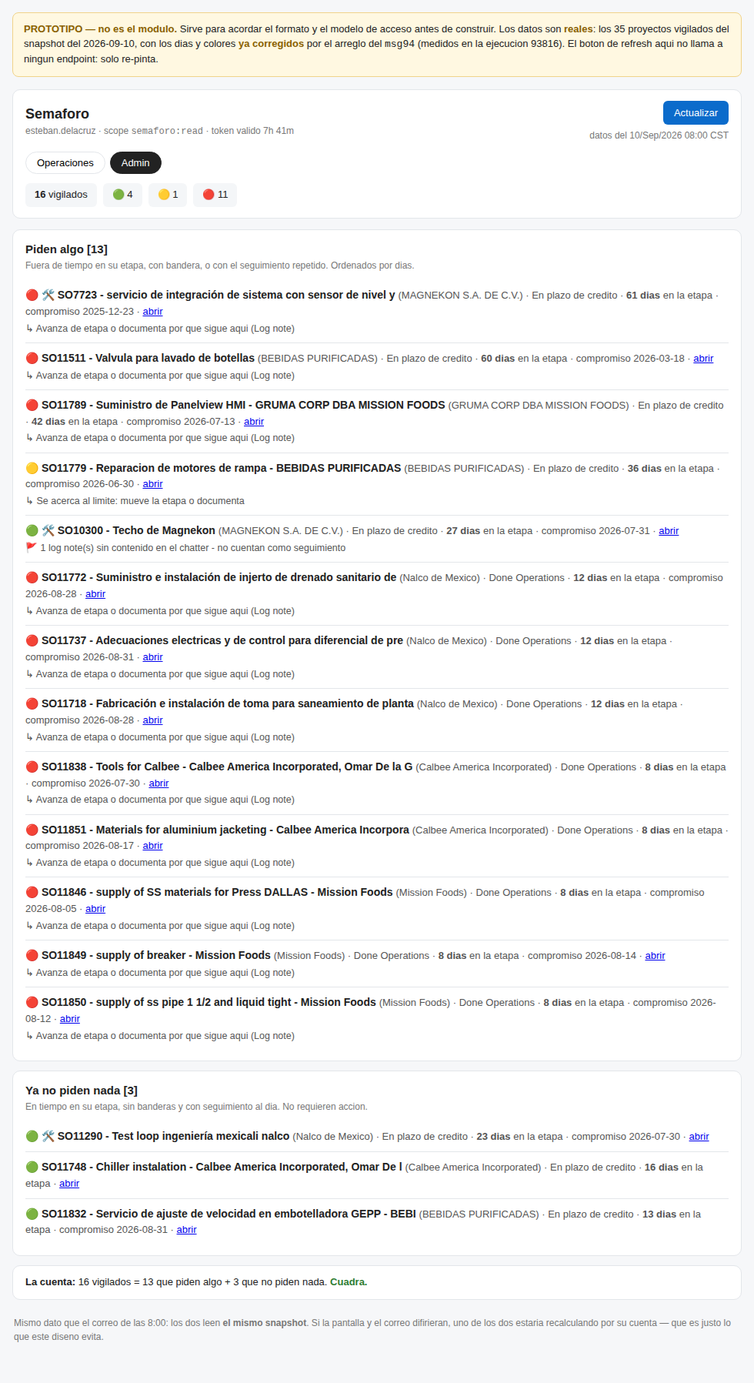
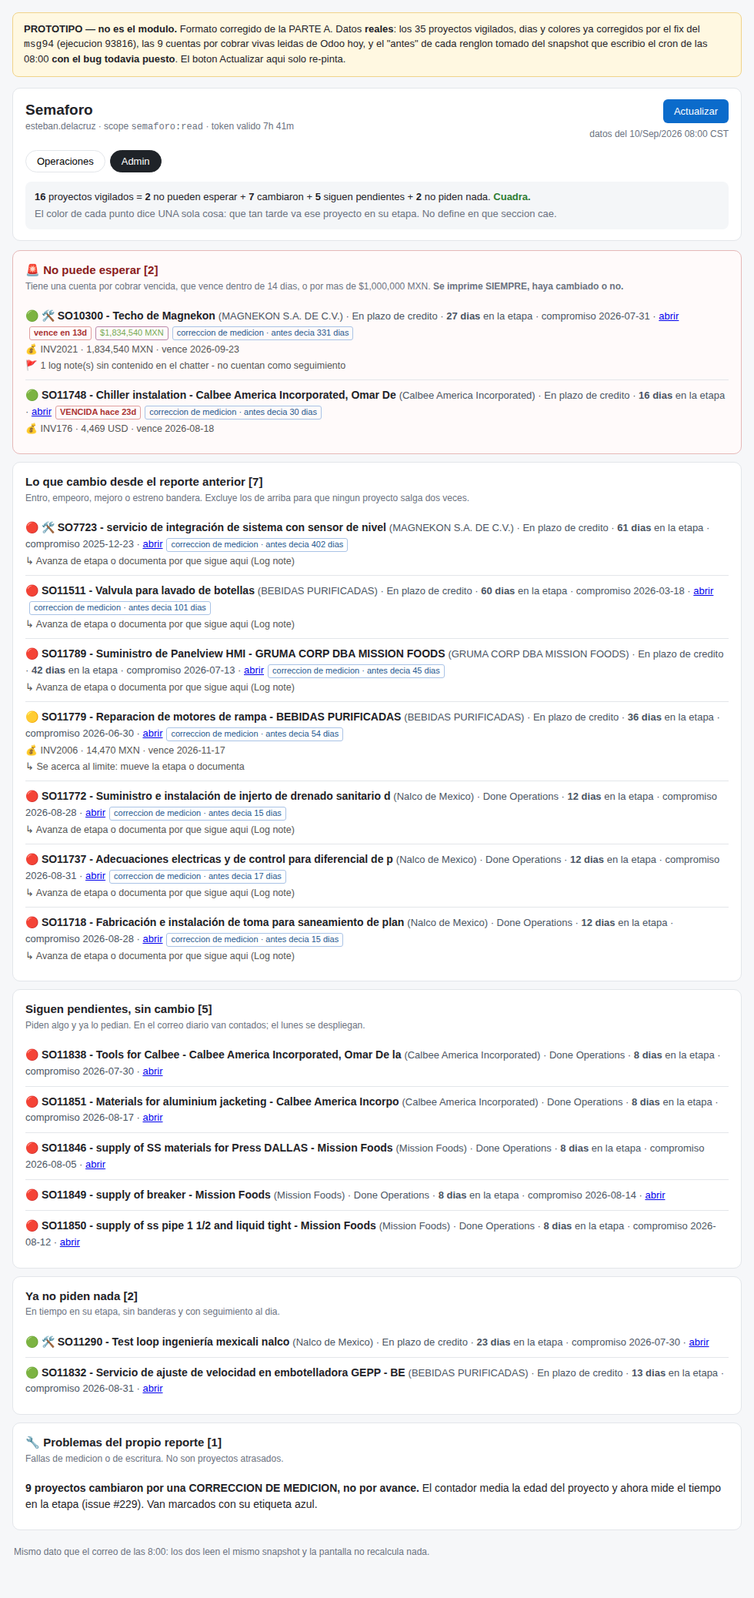
feat(semaforo): prototipo con el formato corregido de la parte A (#226 #230)
Capa SIEMPRE VISIBLE (A1): seccion "No puede esperar" con las cuentas por
cobrar vencidas, las que vencen dentro de 14 dias, y las de mas de $1M MXN.
Se imprime SIEMPRE, haya cambiado o no. Umbrales MEDIDOS contra la cartera
real (9 cuentas vivas, 5.04M MXN-eq): el hueco natural de monto esta entre
194,753 y 1,121,255 (x5.8), asi que cualquier corte ahi adentro selecciona los
mismos 3 proyectos = 86% de la cartera; 1M es el redondo dentro del hueco. La
ventana de 14 dias da 5 renglones (7d da 3, 30d da 7 = 78% de la cartera, que
ya no es "siempre visible" sino "todo"). Con esto SO10337, que vence HOY y se
habia perdido en "siguen pendientes", queda arriba y no se puede enterrar.

UN SOLO EJE (A2): el encabezado cuenta las MISMAS cajas que el cuerpo -- no
pueden esperar / cambiaron / siguen pendientes / no piden nada -- y son
disjuntas, asi que la suma cierra. El color deja de definir seccion y pasa a
ser un atributo del renglon: dice una sola cosa, que tan tarde va ese proyecto
en su etapa.

CORRECCION DE MEDICION (A4): un renglon que se movio por el fix del msg94 se
marca "correccion de medicion", no "mejoro", y el bloque de problemas del
reporte dice cuantos son y por que.

MEJORO CON VALOR ANTERIOR (A5): cada cambio trae "antes decia N dias".

Revisado mirandolo a 980 y 400 px, sin pageerror ni console.error, y
verificado por consulta que SO10337 sale en la seccion de arriba.

Claude-Session: https://claude.ai/code/session_01BpNa3pA8Y3jDHR1FqQrPWv

Changed region(s): [[0.0306, 0.0, 0.9796, 0.9972], [0.8878, 0.6233, 0.9184, 0.6544], [0.4898, 0.9661, 0.5204, 0.9972]]

diff --git a/docs/watchdogs/prototipo/semaforo-modulo.html b/docs/watchdogs/prototipo/semaforo-modulo.html
@@ -1,127 +1,146 @@
-<!doctype html><meta charset="utf-8">
-<title>Semaforo - prototipo del modulo</title>
+<!doctype html><meta charset="utf-8"><title>Semaforo - prototipo del modulo</title>
 <style>
- :root{--rojo:#c62828;--amar:#b35900;--verde:#2e7d32;--tinta:#222;--gris:#777;--linea:#e3e6ea}
+ :root{--rojo:#c62828;--amar:#b35900;--verde:#2e7d32;--tinta:#1f2328;--gris:#6b7280;--linea:#e3e6ea;--urg:#8a1c1c}
  *{box-sizing:border-box}
  body{margin:0;background:#f6f7f9;color:var(--tinta);font:14px/1.45 -apple-system,Segoe UI,Arial,sans-serif}
- .wrap{max-width:980px;margin:0 auto;padding:16px}
- .aviso{background:#fff8e1;border:1px solid #f0d38a;border-radius:8px;padding:12px 14px;margin-bottom:16px;font-size:13px}
- .aviso b{color:#8a6100}
- header.app{background:#fff;border:1px solid var(--linea);border-radius:10px;padding:14px 16px;margin-bottom:14px}
- .fila1{display:flex;flex-wrap:wrap;gap:10px;align-items:center;justify-content:space-between}
- h1{font-size:18px;margin:0}
+ .wrap{max-width:1000px;margin:0 auto;padding:16px}
+ .aviso{background:#fff8e1;border:1px solid #f0d38a;border-radius:8px;padding:12px 14px;margin-bottom:14px;font-size:13px}
+ header.app{background:#fff;border:1px solid var(--linea);border-radius:10px;padding:14px 16px;margin-bottom:12px}
+ .fila1{display:flex;flex-wrap:wrap;gap:10px;align-items:flex-start;justify-content:space-between}
+ h1{font-size:19px;margin:0}
  .sesion{font-size:12px;color:var(--gris)}
  .btn{background:#0b6bcb;color:#fff;border:0;border-radius:6px;padding:8px 14px;font-size:13px;cursor:pointer}
  .btn:disabled{background:#9bb8d6;cursor:default}
  .tabs{display:flex;gap:6px;margin-top:12px;flex-wrap:wrap}
  .tab{border:1px solid var(--linea);background:#fff;border-radius:999px;padding:6px 14px;font-size:13px;cursor:pointer}
  .tab[aria-selected=true]{background:var(--tinta);color:#fff;border-color:var(--tinta)}
- .kpis{display:flex;gap:8px;flex-wrap:wrap;margin-top:12px;font-size:13px}
- .kpi{background:#f4f6f8;border-radius:6px;padding:6px 12px}
- section{background:#fff;border:1px solid var(--linea);border-radius:10px;padding:14px 16px;margin-bottom:12px}
+ .recuento{margin-top:12px;font-size:13px;background:#f4f6f8;border-radius:8px;padding:9px 12px;line-height:1.7}
+ .recuento b{font-variant-numeric:tabular-nums}
+ section{background:#fff;border:1px solid var(--linea);border-radius:10px;padding:14px 16px;margin-bottom:10px}
+ section.urgente{border-color:#e6b8b8;background:#fffafa}
  h2{font-size:15px;margin:0 0 2px}
+ h2.urg{color:var(--urg)}
  .criterio{font-size:12px;color:var(--gris);margin:0 0 10px}
  ul{list-style:none;margin:0;padding:0}
  li.row{border-top:1px solid var(--linea);padding:9px 0}
  li.row:first-child{border-top:0}
  .nom{font-weight:600}
- .meta{color:#555;font-size:13px}
- .chip{display:inline-block;font-size:11px;color:#666;border:1px solid #ccc;border-radius:3px;padding:0 5px;margin-left:5px;white-space:nowrap}
+ .meta{color:#4b5563;font-size:13px}
+ .chip{display:inline-block;font-size:11px;color:#555;border:1px solid #ccd;border-radius:3px;padding:0 5px;margin-left:5px;white-space:nowrap}
+ .chip.dinero{border-color:#b8a; color:#7a5}
+ .chip.vence{border-color:#e0a0a0;color:#a33;font-weight:600}
+ .chip.corr{border-color:#a9c3e6;color:#25588f}
  .band{display:block;color:#555;font-size:12.5px;margin-top:3px}
- .vacio{color:#999;font-size:13px}
- .pie{font-size:12px;color:var(--gris);padding:10px 2px 24px}
- .cuenta{background:#fff;border:1px solid var(--linea);border-radius:10px;padding:12px 16px;font-size:13px}
+ .vacio{color:#9aa;font-size:13px}
+ .pie{font-size:12px;color:var(--gris);padding:8px 2px 24px}
+ .cuenta{background:#fff;border:1px solid var(--linea);border-radius:10px;padding:12px 16px;font-size:13px;margin-bottom:10px}
  .ok{color:var(--verde);font-weight:600}
- @media(max-width:520px){.fila1{align-items:flex-start;flex-direction:column}}
+ @media(max-width:560px){.fila1{flex-direction:column}}
 </style>
 <div class="wrap">
-<div class="aviso">
- <b>PROTOTIPO — no es el modulo.</b> Sirve para acordar el formato y el modelo de acceso antes de construir.
- Los datos son <b>reales</b>: los 35 proyectos vigilados del snapshot del 2026-09-10, con los dias y colores
- <b>ya corregidos</b> por el arreglo del <code>msg94</code> (medidos en la ejecucion 93816). El boton de refresh
- aqui no llama a ningun endpoint: solo re-pinta.
-</div>
-
+<div class="aviso"><b>PROTOTIPO — no es el modulo.</b> Formato corregido de la PARTE A. Datos <b>reales</b>:
+los 35 proyectos vigilados, dias y colores ya corregidos por el fix del <code>msg94</code> (ejecucion 93816),
+las 9 cuentas por cobrar vivas leidas de Odoo hoy, y el "antes" de cada renglon tomado del snapshot que
+escribio el cron de las 08:00 <b>con el bug todavia puesto</b>. El boton Actualizar aqui solo re-pinta.</div>
 <header class="app">
  <div class="fila1">
-  <div>
-   <h1>Semaforo</h1>
-   <div class="sesion">esteban.delacruz &middot; scope <code>semaforo:read</code> &middot; token valido 7h 41m</div>
-  </div>
-  <div style="text-align:right">
-   <button class="btn" id="ref">Actualizar</button>
-   <div class="sesion" id="ts" style="margin-top:6px">datos del 10/Sep/2026 08:00 CST</div>
-  </div>
+  <div><h1>Semaforo</h1><div class="sesion">esteban.delacruz &middot; scope <code>semaforo:read</code> &middot; token valido 7h 41m</div></div>
+  <div style="text-align:right"><button class="btn" id="ref">Actualizar</button>
+   <div class="sesion" style="margin-top:6px">datos del 10/Sep/2026 08:00 CST</div></div>
  </div>
  <div class="tabs" role="tablist">
   <button class="tab" role="tab" data-g="Operaciones" aria-selected="true">Operaciones</button>
   <button class="tab" role="tab" data-g="Admin" aria-selected="false">Admin</button>
  </div>
- <div class="kpis" id="kpis"></div>
+ <div class="recuento" id="recuento"></div>
 </header>
-
 <div id="cuerpo"></div>
-<div class="cuenta" id="cuenta"></div>
-<p class="pie">Mismo dato que el correo de las 8:00: los dos leen <b>el mismo snapshot</b>. Si la pantalla y el
-correo difirieran, uno de los dos estaria recalculando por su cuenta &mdash; que es justo lo que este diseno evita.</p>
+<p class="pie">Mismo dato que el correo de las 8:00: los dos leen el mismo snapshot y la pantalla no recalcula nada.</p>
 </div>
 <script>
-const FILAS = [{"id":2375,"name":"SO11498 - Ingeniería conceptual para el diseño del desbobinadora de carretes Bridgestone e - Bridgestone México","stage":"In Progress","grupo":"Operaciones","cliente":"Bridgestone México","dias":6,"color":"verde","banderas":[],"sin_avance":false,"racha":1,"fuente":"stage_msg","tramo":"6-15","compromiso":"2026-09-30","link":"https://serviciosfts.odoo.com/web#id=2375&model=project.project&view_type=form"},{"id":2360,"name":"SO11748 - Chiller instalation - Calbee America Incorporated, Omar De la Garza","stage":"En plazo de credito","grupo":"Admin","cliente":"Calbee America Incorporated","dias":16,"color":"verde","banderas":[],"sin_avance":false,"racha":1,"fuente":"stage_msg","tramo":"16-30","compromiso":null,"link":"https://serviciosfts.odoo.com/web#id=2360&model=project.project&view_type=form"},{"id":2372,"name":"SO11838 - Tools for Calbee - Calbee America Incorporated, Omar De la Garza","stage":"Done Operations","grupo":"Admin","cliente":"Calbee America Incorporated","dias":8,"color":"rojo","banderas":[],"sin_avance":false,"racha":1,"fuente":"stage_msg","tramo":"6-15","compromiso":"2026-07-30","link":"https://serviciosfts.odoo.com/web#id=2372&model=project.project&view_type=form"},{"id":2376,"name":"SO11860 - VIP Service - Mission HQ - Mission Foods, Robert Barrera","stage":"To Do","grupo":"Operaciones","cliente":"Mission Foods","dias":4,"color":"rojo","banderas":[],"sin_avance":false,"racha":0,"fuente":"stage_msg","tramo":"1-5","compromiso":"2026-08-28","link":"https://serviciosfts.odoo.com/web#id=2376&model=project.project&view_type=form"},{"id":2352,"name":"SO11699 - Instalacion mecanica y electrica de Sensores en ductos de Extraccion de Colector - Bridgestone México, Ruben Robledo","stage":"In Progress","grupo":"Operaciones","cliente":"Bridgestone México","dias":7,"color":"verde","banderas":["Stage regresado Hold -> En proceso por OPERACIONES FTS-YIN"],"sin_avance":false,"racha":1,"fuente":"stage_msg","tramo":">30","compromiso":"2026-12-31","link":"https://serviciosfts.odoo.com/web#id=2352&model=project.project&view_type=form"},{"id":2364,"name":"SO11832 - Servicio de ajuste de velocidad en embotelladora GEPP - BEBIDAS PURIFICADAS","stage":"En plazo de credito","grupo":"Admin","cliente":"BEBIDAS PURIFICADAS","dias":13,"color":"verde","banderas":[],"sin_avance":false,"racha":1,"fuente":"stage_msg","tramo":"16-30","compromiso":"2026-08-31","link":"https://serviciosfts.odoo.com/web#id=2364&model=project.project&view_type=form"},{"id":2374,"name":"SO11851 - Materials for aluminium jacketing - Calbee America Incorporated, Omar De la Garza","stage":"Done Operations","grupo":"Admin","cliente":"Calbee America Incorporated","dias":8,"color":"rojo","banderas":[],"sin_avance":false,"racha":1,"fuente":"stage_msg","tramo":"6-15","compromiso":"2026-08-17","link":"https://serviciosfts.odoo.com/web#id=2374&model=project.project&view_type=form"},{"id":2373,"name":"SO11846 - supply of SS materials for Press DALLAS - Mission Foods","stage":"Done Operations","grupo":"Admin","cliente":"Mission Foods","dias":8,"color":"rojo","banderas":[],"sin_avance":false,"racha":1,"fuente":"stage_msg","tramo":"6-15","compromiso":"2026-08-05","link":"https://serviciosfts.odoo.com/web#id=2373&model=project.project&view_type=form"},{"id":2369,"name":"SO11862 - Cubierta de acero Inoxidable 304 para reactor quimico #2 - MAGNEKON S.A. DE C.V.","stage":"In Progress","grupo":"Operaciones","cliente":"MAGNEKON S.A. DE C.V.","dias":9,"color":"verde","banderas":[],"sin_avance":false,"racha":1,"fuente":"stage_msg","tramo":"6-15","compromiso":"2026-12-31","link":"https://serviciosfts.odoo.com/web#id=2369&model=project.project&view_type=form"},{"id":213,"name":"🛠 SO11037 - Distribucion Electrica luminarias Cabina de Flejadoras - clarios recicladora","stage":"Hold","grupo":"Operaciones","cliente":"JOHNSON CONTROLS ENTERPRISES MEXICO","dias":50,"color":"rojo","banderas":["En Hold con fecha de reactivacion VENCIDA (2026-07-30)"],"sin_avance":false,"racha":1,"fuente":"stage_msg","tramo":">30","compromiso":"2026-07-30","link":"https://serviciosfts.odoo.com/web#id=213&model=project.project&view_type=form"},{"id":241,"name":"🛠 SO11290 - Test loop ingeniería mexicali nalco","stage":"En plazo de credito","grupo":"Admin","cliente":"Nalco de Mexico","dias":23,"color":"verde","banderas":[],"sin_avance":false,"racha":1,"fuente":"stage_msg","tramo":">30","compromiso":"2026-07-30","link":"https://serviciosfts.odoo.com/web#id=241&model=project.project&view_type=form"},{"id":2371,"name":"SO11849 - supply of breaker - Mission Foods","stage":"Done Operations","grupo":"Admin","cliente":"Mission Foods","dias":8,"color":"rojo","banderas":[],"sin_avance":false,"racha":1,"fuente":"stage_msg","tramo":"6-15","compromiso":"2026-08-14","link":"https://serviciosfts.odoo.com/web#id=2371&model=project.project&view_type=form"},{"id":2368,"name":"SO11861 - Cubierta de acero Inoxidable 304 para reactor quimico #1 - MAGNEKON S.A. DE C.V.","stage":"In Progress","grupo":"Operaciones","cliente":"MAGNEKON S.A. DE C.V.","dias":9,"color":"verde","banderas":[],"sin_avance":false,"racha":1,"fuente":"stage_msg","tramo":"6-15","compromiso":"2026-12-31","link":"https://serviciosfts.odoo.com/web#id=2368&model=project.project&view_type=form"},{"id":160,"name":"🛠 SO10300 - Techo de Magnekon","stage":"En plazo de credito","grupo":"Admin","cliente":"MAGNEKON S.A. DE C.V.","dias":27,"color":"verde","banderas":["1 log note(s) sin contenido en el chatter - no cuentan como seguimiento"],"sin_avance":false,"racha":1,"fuente":"stage_msg","tramo":">30","compromiso":"2026-07-31","link":"https://serviciosfts.odoo.com/web#id=160&model=project.project&view_type=form"},{"id":2353,"name":"SO11779 - Reparacion de motores de rampa - BEBIDAS PURIFICADAS","stage":"En plazo de credito","grupo":"Admin","cliente":"BEBIDAS PURIFICADAS","dias":36,"color":"amarillo","banderas":[],"sin_avance":false,"racha":1,"fuente":"stage_msg","tramo":">30","compromiso":"2026-06-30","link":"https://serviciosfts.odoo.com/web#id=2353&model=project.project&view_type=form"},{"id":2361,"name":"SO11791 - Power and control panels updated July 2026 Calbee - Calbee America Incorporated, Omar De la Garza","stage":"Hold","grupo":"Operaciones","cliente":"Calbee America Incorporated","dias":18,"color":"verde","banderas":["1 log note(s) sin contenido en el chatter - no cuentan como seguimiento","En Hold con fecha de reactivacion VENCIDA (2026-08-21)"],"sin_avance":false,"racha":1,"fuente":"stage_msg","tramo":"16-30","compromiso":"2026-08-21","link":"https://serviciosfts.odoo.com/web#id=2361&model=project.project&view_type=form"},{"id":2363,"name":"SO11833 - Cooling system for Quality offices - Mission Foods, Martín Infante","stage":"In Progress","grupo":"Operaciones","cliente":"Mission Foods","dias":22,"color":"rojo","banderas":[],"sin_avance":false,"racha":1,"fuente":"stage_msg","tramo":"16-30","compromiso":"2026-08-15","link":"https://serviciosfts.odoo.com/web#id=2363&model=project.project&view_type=form"},{"id":2370,"name":"SO11850 - supply of ss pipe 1 1/2 and liquid tight - Mission Foods","stage":"Done Operations","grupo":"Admin","cliente":"Mission Foods","dias":8,"color":"rojo","banderas":[],"sin_avance":false,"racha":1,"fuente":"stage_msg","tramo":"6-15","compromiso":"2026-08-12","link":"https://serviciosfts.odoo.com/web#id=2370&model=project.project&view_type=form"},{"id":2327,"name":"SO11511 - Valvula para lavado de botellas","stage":"En plazo de credito","grupo":"Admin","cliente":"BEBIDAS PURIFICADAS","dias":60,"color":"rojo","banderas":[],"sin_avance":false,"racha":1,"fuente":"stage_msg","tramo":">30","compromiso":"2026-03-18","link":"https://serviciosfts.odoo.com/web#id=2327&model=project.project&view_type=form"},{"id":2366,"name":"SO11772 - Suministro e instalación de injerto de drenado sanitario de 3\" sobre codo - Nalco de Mexico, Tito Everardo Ordaz","stage":"Done Operations","grupo":"Admin","cliente":"Nalco de Mexico","dias":12,"color":"rojo","banderas":[],"sin_avance":false,"racha":1,"fuente":"stage_msg","tramo":"6-15","compromiso":"2026-08-28","link":"https://serviciosfts.odoo.com/web#id=2366&model=project.project&view_type=form"},{"id":2357,"name":"SO11789 - Suministro de Panelview HMI - GRUMA CORP DBA MISSION FOODS","stage":"En plazo de credito","grupo":"Admin","cliente":"GRUMA CORP DBA MISSION FOODS","dias":42,"color":"rojo","banderas":[],"sin_avance":false,"racha":1,"fuente":"stage_msg","tramo":">30","compromiso":"2026-07-13","link":"https://serviciosfts.odoo.com/web#id=2357&model=project.project&view_type=form"},{"id":2362,"name":"SO11842 - prensas materials - Mission Foods","stage":"In Progress","grupo":"Operaciones","cliente":"Mission Foods","dias":24,"color":"rojo","banderas":[],"sin_avance":true,"racha":2,"fuente":"stage_msg","tramo":"16-30","compromiso":"2026-08-14","link":"https://serviciosfts.odoo.com/web#id=2362&model=project.project&view_type=form"},{"id":2365,"name":"SO11737 - Adecuaciones electricas y de control para diferencial de precion - Nalco de Mexico, Tito Everardo Ordaz","stage":"Done Operations","grupo":"Admin","cliente":"Nalco de Mexico","dias":12,"color":"rojo","banderas":[],"sin_avance":false,"racha":1,"fuente":"stage_msg","tramo":"16-30","compromiso":"2026-08-31","link":"https://serviciosfts.odoo.com/web#id=2365&model=project.project&view_type=form"},{"id":2359,"name":"SO11771 - Subestación PI Aurora - Conmet de México, S.A. de C.V.","stage":"In Progress","grupo":"Operaciones","cliente":"CONMET DE MEXICO","dias":33,"color":"verde","banderas":[],"sin_avance":false,"racha":1,"fuente":"stage_msg","tramo":">30","compromiso":"2026-12-31","link":"https://serviciosfts.odoo.com/web#id=2359&model=project.project&view_type=form"},{"id":101,"name":"🛠 SO7723 - servicio de integración de sistema con sensor de nivel y pantalla HMI","stage":"En plazo de credito","grupo":"Admin","cliente":"MAGNEKON S.A. DE C.V.","dias":61,"color":"rojo","banderas":[],"sin_avance":false,"racha":1,"fuente":"stage_msg","tramo":">30","compromiso":"2025-12-23","link":"https://serviciosfts.odoo.com/web#id=101&model=project.project&view_type=form"},{"id":2358,"name":"SO11233 - Rigging compresor - Lau Industries de Mexico","stage":"In Progress","grupo":"Operaciones","cliente":"Lau Industries de Mexico","dias":42,"color":"verde","banderas":[],"sin_avance":false,"racha":1,"fuente":"stage_msg","tramo":">30","compromiso":"2026-09-30","link":"https://serviciosfts.odoo.com/web#id=2358&model=project.project&view_type=form"},{"id":2367,"name":"SO11718 - Fabricación e instalación de toma para saneamiento de planta en zona de arreglo  - Nalco de Mexico, Tito Everardo Ordaz","stage":"Done Operations","grupo":"Admin","cliente":"Nalco de Mexico","dias":12,"color":"rojo","banderas":[],"sin_avance":false,"racha":1,"fuente":"stage_msg","tramo":"6-15","compromiso":"2026-08-28","link":"https://serviciosfts.odoo.com/web#id=2367&model=project.project&view_type=form"},{"id":506,"name":"🛠 SO11492 - Instalacion de ductos de aire en area de chips, corn, flour process area & packing","stage":"In Progress","grupo":"Operaciones","cliente":"Mission Foods","dias":46,"color":"verde","banderas":["1 log note(s) sin contenido en el chatter - no cuentan como seguimiento"],"sin_avance":false,"racha":1,"fuente":"stage_msg","tramo":">30","compromiso":"2026-09-30","link":"https://serviciosfts.odoo.com/web#id=506&model=project.project&view_type=form"},{"id":343,"name":"🛠 SO11261 - Suministro e instalación de sistema de medición de flujo de 2 Etil Hexanol","stage":"In Progress","grupo":"Operaciones","cliente":"MAGNEKON S.A. DE C.V.","dias":36,"color":"verde","banderas":[],"sin_avance":false,"racha":1,"fuente":"stage_msg","tramo":">30","compromiso":"2026-10-30","link":"https://serviciosfts.odoo.com/web#id=343&model=project.project&view_type=form"},{"id":2349,"name":"SO11762 - Mejoras a sistema TOPOCHICO, MTY. - Nalco de Mexico, Tito Everardo Ordaz","stage":"In Progress","grupo":"Operaciones","cliente":"Nalco de Mexico","dias":51,"color":"rojo","banderas":["1 log note(s) sin contenido en el chatter - no cuentan como seguimiento"],"sin_avance":false,"racha":1,"fuente":"stage_msg","tramo":">30","compromiso":"2026-08-31","link":"https://serviciosfts.odoo.com/web#id=2349&model=project.project&view_type=form"},{"id":2356,"name":"SO11773 - ELECTRICAL DUMP STATION DALLAS 2 - Mission Foods, Daniel Sanudo","stage":"In Progress","grupo":"Operaciones","cliente":"Mission Foods","dias":50,"color":"rojo","banderas":[],"sin_avance":false,"racha":1,"fuente":"stage_msg","tramo":">30","compromiso":"2026-07-31","link":"https://serviciosfts.odoo.com/web#id=2356&model=project.project&view_type=form"},{"id":2302,"name":"SO11547 - Desinstalación, Adecuación e Integración de Sistema de Filtración en planta Topo Chico","stage":"In Progress","grupo":"Operaciones","cliente":"Nalco de Mexico","dias":117,"color":"rojo","banderas":[],"sin_avance":false,"racha":1,"fuente":"stage_msg","tramo":">30","compromiso":"2026-08-31","link":"https://serviciosfts.odoo.com/web#id=2302&model=project.project&view_type=form"},{"id":2355,"name":"SO11673 - Poliza de matto para Compresor Houston TX - Mission Foods","stage":"In Progress","grupo":"Operaciones","cliente":"Mission Foods","dias":50,"color":"rojo","banderas":[],"sin_avance":false,"racha":1,"fuente":"stage_msg","tramo":">30","compromiso":"2026-07-31","link":"https://serviciosfts.odoo.com/web#id=2355&model=project.project&view_type=form"},{"id":121,"name":"🛠 SO9428 - INSTALACION DE SUMINISTRO DE AGUA FRIA - VERTIV 2da Fase","stage":"In Progress","grupo":"Operaciones","cliente":"Nalco de Mexico","dias":147,"color":"rojo","banderas":[],"sin_avance":false,"racha":1,"fuente":"stage_msg","tramo":">30","compromiso":"2026-08-31","link":"https://serviciosfts.odoo.com/web#id=121&model=project.project&view_type=form"},{"id":212,"name":"🛠 SO10337 - Cortinas de seguridad 120s y 270s","stage":"In Progress","grupo":"Operaciones","cliente":"Bridgestone México","dias":246,"color":"rojo","banderas":[],"sin_avance":true,"racha":2,"fuente":"stage_msg","tramo":">30","compromiso":"2026-08-31","link":"https://serviciosfts.odoo.com/web#id=212&model=project.project&view_type=form"}];
-const PUNTO = {rojo:"\u{1F534}", amarillo:"\u{1F7E1}", verde:"\u{1F7E2}"};
-const ACC = {rojo:"Avanza de etapa o documenta por que sigue aqui (Log note)",
-             amarillo:"Se acerca al limite: mueve la etapa o documenta"};
-let grupo = "Operaciones";
-const pide = f => f.color!=="verde" || f.sin_avance || f.banderas.length>0;
-const esc = s => String(s==null?"":s).replace(/[&<>]/g,c=>({"&":"&amp;","<":"&lt;",">":"&gt;"}[c]));
-
-function renglon(f, compacto){
-  const motivos=[];
-  if(f.sin_avance) motivos.push(f.racha+" notas seguidas casi iguales");
-  if(f.banderas.length) motivos.push(f.banderas.length+" bandera"+(f.banderas.length>1?"s":""));
-  let h = "<li class=\"row\">" + PUNTO[f.color] + " <span class=\"nom\">" + esc(f.name.slice(0,70)) + "</span>";
-  h += " <span class=\"meta\">(" + esc(f.cliente.slice(0,32)) + ") &middot; " + esc(f.stage);
-  h += " &middot; <b>" + f.dias + (f.dias===1?" dia":" dias") + "</b> en la etapa";
-  if(f.compromiso) h += " &middot; compromiso " + esc(f.compromiso.slice(0,10));
-  h += " &middot; <a href=\"" + f.link + "\" target=\"_blank\" rel=\"noopener\">abrir</a></span>";
-  if(compacto && motivos.length) h += "<span class=\"chip\">" + esc(motivos.join(" + ")) + "</span>";
-  if(!compacto){
-    for(const b of f.banderas) h += "<span class=\"band\">\u{1F6A9} " + esc(b) + "</span>";
-    if(f.sin_avance) h += "<span class=\"band\">\u{1F504} " + f.racha + " notas seguidas practicamente iguales</span>";
-    if(f.color!=="verde") h += "<span class=\"band\">\u21B3 " + ACC[f.color] + "</span>";
-  }
-  return h + "</li>";
+const FILAS = [{"id":2375,"name":"SO11498 - Ingeniería conceptual para el diseño del desbobinadora de carretes Bridgestone e - Bridgestone México","stage":"In Progress","grupo":"Operaciones","cliente":"Bridgestone México","dias":6,"color":"verde","banderas":[],"sin_avance":false,"racha":1,"fuente":"stage_msg","tramo":"6-15","compromiso":"2026-09-30","link":"https://serviciosfts.odoo.com/web#id=2375&model=project.project&view_type=form","antes":{"dias":6,"color":"verde"}},{"id":2360,"name":"SO11748 - Chiller instalation - Calbee America Incorporated, Omar De la Garza","stage":"En plazo de credito","grupo":"Admin","cliente":"Calbee America Incorporated","dias":16,"color":"verde","banderas":[],"sin_avance":false,"racha":1,"fuente":"stage_msg","tramo":"16-30","compromiso":null,"link":"https://serviciosfts.odoo.com/web#id=2360&model=project.project&view_type=form","cxc":{"inv":"INV176","cur":"USD","nat":4469,"mxn":77537.15000000001,"due":"2026-08-18","d":23},"antes":{"dias":30,"color":"verde"}},{"id":2372,"name":"SO11838 - Tools for Calbee - Calbee America Incorporated, Omar De la Garza","stage":"Done Operations","grupo":"Admin","cliente":"Calbee America Incorporated","dias":8,"color":"rojo","banderas":[],"sin_avance":false,"racha":1,"fuente":"stage_msg","tramo":"6-15","compromiso":"2026-07-30","link":"https://serviciosfts.odoo.com/web#id=2372&model=project.project&view_type=form","antes":{"dias":8,"color":"rojo"}},{"id":2376,"name":"SO11860 - VIP Service - Mission HQ - Mission Foods, Robert Barrera","stage":"To Do","grupo":"Operaciones","cliente":"Mission Foods","dias":4,"color":"rojo","banderas":[],"sin_avance":false,"racha":0,"fuente":"stage_msg","tramo":"1-5","compromiso":"2026-08-28","link":"https://serviciosfts.odoo.com/web#id=2376&model=project.project&view_type=form","cxc":{"inv":"INV177","cur":"USD","nat":7500,"mxn":130125.00000000001,"due":"2026-09-19","d":-9},"antes":{"dias":3,"color":"rojo"}},{"id":2352,"name":"SO11699 - Instalacion mecanica y electrica de Sensores en ductos de Extraccion de Colector - Bridgestone México, Ruben Robledo","stage":"In Progress","grupo":"Operaciones","cliente":"Bridgestone México","dias":7,"color":"verde","banderas":["Stage regresado Hold -> En proceso por OPERACIONES FTS-YIN"],"sin_avance":false,"racha":1,"fuente":"stage_msg","tramo":">30","compromiso":"2026-12-31","link":"https://serviciosfts.odoo.com/web#id=2352&model=project.project&view_type=form","antes":{"dias":54,"color":"verde"}},{"id":2364,"name":"SO11832 - Servicio de ajuste de velocidad en embotelladora GEPP - BEBIDAS PURIFICADAS","stage":"En plazo de credito","grupo":"Admin","cliente":"BEBIDAS PURIFICADAS","dias":13,"color":"verde","banderas":[],"sin_avance":false,"racha":1,"fuente":"stage_msg","tramo":"16-30","compromiso":"2026-08-31","link":"https://serviciosfts.odoo.com/web#id=2364&model=project.project&view_type=form","cxc":{"inv":"INV2022","cur":"MXN","nat":86452.48,"mxn":86452.48,"due":"2026-12-16","d":-97},"antes":{"dias":17,"color":"verde"}},{"id":2374,"name":"SO11851 - Materials for aluminium jacketing - Calbee America Incorporated, Omar De la Garza","stage":"Done Operations","grupo":"Admin","cliente":"Calbee America Incorporated","dias":8,"color":"rojo","banderas":[],"sin_avance":false,"racha":1,"fuente":"stage_msg","tramo":"6-15","compromiso":"2026-08-17","link":"https://serviciosfts.odoo.com/web#id=2374&model=project.project&view_type=form","antes":{"dias":8,"color":"rojo"}},{"id":2373,"name":"SO11846 - supply of SS materials for Press DALLAS - Mission Foods","stage":"Done Operations","grupo":"Admin","cliente":"Mission Foods","dias":8,"color":"rojo","banderas":[],"sin_avance":false,"racha":1,"fuente":"stage_msg","tramo":"6-15","compromiso":"2026-08-05","link":"https://serviciosfts.odoo.com/web#id=2373&model=project.project&view_type=form","antes":{"dias":8,"color":"rojo"}},{"id":2369,"name":"SO11862 - Cubierta de acero Inoxidable 304 para reactor quimico #2 - MAGNEKON S.A. DE C.V.","stage":"In Progress","grupo":"Operaciones","cliente":"MAGNEKON S.A. DE C.V.","dias":9,"color":"verde","banderas":[],"sin_avance":false,"racha":1,"fuente":"stage_msg","tramo":"6-15","compromiso":"2026-12-31","link":"https://serviciosfts.odoo.com/web#id=2369&model=project.project&view_type=form","antes":{"dias":8,"color":"verde"}},{"id":213,"name":"🛠 SO11037 - Distribucion Electrica luminarias Cabina de Flejadoras - clarios recicladora","stage":"Hold","grupo":"Operaciones","cliente":"JOHNSON CONTROLS ENTERPRISES MEXICO","dias":50,"color":"rojo","banderas":["En Hold con fecha de reactivacion VENCIDA (2026-07-30)"],"sin_avance":false,"racha":1,"fuente":"stage_msg","tramo":">30","compromiso":"2026-07-30","link":"https://serviciosfts.odoo.com/web#id=213&model=project.project&view_type=form","antes":{"dias":267,"color":"rojo"}},{"id":241,"name":"🛠 SO11290 - Test loop ingeniería mexicali nalco","stage":"En plazo de credito","grupo":"Admin","cliente":"Nalco de Mexico","dias":23,"color":"verde","banderas":[],"sin_avance":false,"racha":1,"fuente":"stage_msg","tramo":">30","compromiso":"2026-07-30","link":"https://serviciosfts.odoo.com/web#id=241&model=project.project&view_type=form","cxc":{"inv":"INV2013","cur":"MXN","nat":184126.8,"mxn":184126.8,"due":"2026-10-04","d":-24},"antes":{"dias":204,"color":"rojo"}},{"id":2371,"name":"SO11849 - supply of breaker - Mission Foods","stage":"Done Operations","grupo":"Admin","cliente":"Mission Foods","dias":8,"color":"rojo","banderas":[],"sin_avance":false,"racha":1,"fuente":"stage_msg","tramo":"6-15","compromiso":"2026-08-14","link":"https://serviciosfts.odoo.com/web#id=2371&model=project.project&view_type=form","antes":{"dias":8,"color":"rojo"}},{"id":2368,"name":"SO11861 - Cubierta de acero Inoxidable 304 para reactor quimico #1 - MAGNEKON S.A. DE C.V.","stage":"In Progress","grupo":"Operaciones","cliente":"MAGNEKON S.A. DE C.V.","dias":9,"color":"verde","banderas":[],"sin_avance":false,"racha":1,"fuente":"stage_msg","tramo":"6-15","compromiso":"2026-12-31","link":"https://serviciosfts.odoo.com/web#id=2368&model=project.project&view_type=form","antes":{"dias":8,"color":"verde"}},{"id":160,"name":"🛠 SO10300 - Techo de Magnekon","stage":"En plazo de credito","grupo":"Admin","cliente":"MAGNEKON S.A. DE C.V.","dias":27,"color":"verde","banderas":["1 log note(s) sin contenido en el chatter - no cuentan como seguimiento"],"sin_avance":false,"racha":1,"fuente":"stage_msg","tramo":">30","compromiso":"2026-07-31","link":"https://serviciosfts.odoo.com/web#id=160&model=project.project&view_type=form","cxc":{"inv":"INV2021","cur":"MXN","nat":1834540,"mxn":1834540,"due":"2026-09-23","d":-13},"antes":{"dias":331,"color":"rojo"}},{"id":2353,"name":"SO11779 - Reparacion de motores de rampa - BEBIDAS PURIFICADAS","stage":"En plazo de credito","grupo":"Admin","cliente":"BEBIDAS PURIFICADAS","dias":36,"color":"amarillo","banderas":[],"sin_avance":false,"racha":1,"fuente":"stage_msg","tramo":">30","compromiso":"2026-06-30","link":"https://serviciosfts.odoo.com/web#id=2353&model=project.project&view_type=form","cxc":{"inv":"INV2006","cur":"MXN","nat":14469.84,"mxn":14469.84,"due":"2026-11-17","d":-68},"antes":{"dias":54,"color":"rojo"}},{"id":2361,"name":"SO11791 - Power and control panels updated July 2026 Calbee - Calbee America Incorporated, Omar De la Garza","stage":"Hold","grupo":"Operaciones","cliente":"Calbee America Incorporated","dias":18,"color":"verde","banderas":["1 log note(s) sin contenido en el chatter - no cuentan como seguimiento","En Hold con fecha de reactivacion VENCIDA (2026-08-21)"],"sin_avance":false,"racha":1,"fuente":"stage_msg","tramo":"16-30","compromiso":"2026-08-21","link":"https://serviciosfts.odoo.com/web#id=2361&model=project.project&view_type=form","cxc":{"inv":"INV174","cur":"USD","nat":64625.63,"mxn":1121254.6805,"due":"2026-07-31","d":41},"antes":{"dias":28,"color":"verde"}},{"id":2363,"name":"SO11833 - Cooling system for Quality offices - Mission Foods, Martín Infante","stage":"In Progress","grupo":"Operaciones","cliente":"Mission Foods","dias":22,"color":"rojo","banderas":[],"sin_avance":false,"racha":1,"fuente":"stage_msg","tramo":"16-30","compromiso":"2026-08-15","link":"https://serviciosfts.odoo.com/web#id=2363&model=project.project&view_type=form","antes":{"dias":22,"color":"rojo"}},{"id":2370,"name":"SO11850 - supply of ss pipe 1 1/2 and liquid tight - Mission Foods","stage":"Done Operations","grupo":"Admin","cliente":"Mission Foods","dias":8,"color":"rojo","banderas":[],"sin_avance":false,"racha":1,"fuente":"stage_msg","tramo":"6-15","compromiso":"2026-08-12","link":"https://serviciosfts.odoo.com/web#id=2370&model=project.project&view_type=form","antes":{"dias":8,"color":"rojo"}},{"id":2327,"name":"SO11511 - Valvula para lavado de botellas","stage":"En plazo de credito","grupo":"Admin","cliente":"BEBIDAS PURIFICADAS","dias":60,"color":"rojo","banderas":[],"sin_avance":false,"racha":1,"fuente":"stage_msg","tramo":">30","compromiso":"2026-03-18","link":"https://serviciosfts.odoo.com/web#id=2327&model=project.project&view_type=form","antes":{"dias":101,"color":"rojo"}},{"id":2366,"name":"SO11772 - Suministro e instalación de injerto de drenado sanitario de 3\" sobre codo - Nalco de Mexico, Tito Everardo Ordaz","stage":"Done Operations","grupo":"Admin","cliente":"Nalco de Mexico","dias":12,"color":"rojo","banderas":[],"sin_avance":false,"racha":1,"fuente":"stage_msg","tramo":"6-15","compromiso":"2026-08-28","link":"https://serviciosfts.odoo.com/web#id=2366&model=project.project&view_type=form","antes":{"dias":15,"color":"rojo"}},{"id":2357,"name":"SO11789 - Suministro de Panelview HMI - GRUMA CORP DBA MISSION FOODS","stage":"En plazo de credito","grupo":"Admin","cliente":"GRUMA CORP DBA MISSION FOODS","dias":42,"color":"rojo","banderas":[],"sin_avance":false,"racha":1,"fuente":"stage_msg","tramo":">30","compromiso":"2026-07-13","link":"https://serviciosfts.odoo.com/web#id=2357&model=project.project&view_type=form","antes":{"dias":45,"color":"rojo"}},{"id":2362,"name":"SO11842 - prensas materials - Mission Foods","stage":"In Progress","grupo":"Operaciones","cliente":"Mission Foods","dias":24,"color":"rojo","banderas":[],"sin_avance":true,"racha":2,"fuente":"stage_msg","tramo":"16-30","compromiso":"2026-08-14","link":"https://serviciosfts.odoo.com/web#id=2362&model=project.project&view_type=form","antes":{"dias":23,"color":"rojo"}},{"id":2365,"name":"SO11737 - Adecuaciones electricas y de control para diferencial de precion - Nalco de Mexico, Tito Everardo Ordaz","stage":"Done Operations","grupo":"Admin","cliente":"Nalco de Mexico","dias":12,"color":"rojo","banderas":[],"sin_avance":false,"racha":1,"fuente":"stage_msg","tramo":"16-30","compromiso":"2026-08-31","link":"https://serviciosfts.odoo.com/web#id=2365&model=project.project&view_type=form","antes":{"dias":17,"color":"rojo"}},{"id":2359,"name":"SO11771 - Subestación PI Aurora - Conmet de México, S.A. de C.V.","stage":"In Progress","grupo":"Operaciones","cliente":"CONMET DE MEXICO","dias":33,"color":"verde","banderas":[],"sin_avance":false,"racha":1,"fuente":"stage_msg","tramo":">30","compromiso":"2026-12-31","link":"https://serviciosfts.odoo.com/web#id=2359&model=project.project&view_type=form","antes":{"dias":33,"color":"verde"}},{"id":101,"name":"🛠 SO7723 - servicio de integración de sistema con sensor de nivel y pantalla HMI","stage":"En plazo de credito","grupo":"Admin","cliente":"MAGNEKON S.A. DE C.V.","dias":61,"color":"rojo","banderas":[],"sin_avance":false,"racha":1,"fuente":"stage_msg","tramo":">30","compromiso":"2025-12-23","link":"https://serviciosfts.odoo.com/web#id=101&model=project.project&view_type=form","antes":{"dias":402,"color":"rojo"}},{"id":2358,"name":"SO11233 - Rigging compresor - Lau Industries de Mexico","stage":"In Progress","grupo":"Operaciones","cliente":"Lau Industries de Mexico","dias":42,"color":"verde","banderas":[],"sin_avance":false,"racha":1,"fuente":"stage_msg","tramo":">30","compromiso":"2026-09-30","link":"https://serviciosfts.odoo.com/web#id=2358&model=project.project&view_type=form","antes":{"dias":42,"color":"verde"}},{"id":2367,"name":"SO11718 - Fabricación e instalación de toma para saneamiento de planta en zona de arreglo  - Nalco de Mexico, Tito Everardo Ordaz","stage":"Done Operations","grupo":"Admin","cliente":"Nalco de Mexico","dias":12,"color":"rojo","banderas":[],"sin_avance":false,"racha":1,"fuente":"stage_msg","tramo":"6-15","compromiso":"2026-08-28","link":"https://serviciosfts.odoo.com/web#id=2367&model=project.project&view_type=form","antes":{"dias":15,"color":"rojo"}},{"id":506,"name":"🛠 SO11492 - Instalacion de ductos de aire en area de chips, corn, flour process area & packing","stage":"In Progress","grupo":"Operaciones","cliente":"Mission Foods","dias":46,"color":"verde","banderas":["1 log note(s) sin contenido en el chatter - no cuentan como seguimiento"],"sin_avance":false,"racha":1,"fuente":"stage_msg","tramo":">30","compromiso":"2026-09-30","link":"https://serviciosfts.odoo.com/web#id=506&model=project.project&view_type=form","antes":{"dias":188,"color":"verde"}},{"id":343,"name":"🛠 SO11261 - Suministro e instalación de sistema de medición de flujo de 2 Etil Hexanol","stage":"In Progress","grupo":"Operaciones","cliente":"MAGNEKON S.A. DE C.V.","dias":36,"color":"verde","banderas":[],"sin_avance":false,"racha":1,"fuente":"stage_msg","tramo":">30","compromiso":"2026-10-30","link":"https://serviciosfts.odoo.com/web#id=343&model=project.project&view_type=form","antes":{"dias":200,"color":"verde"}},{"id":2349,"name":"SO11762 - Mejoras a sistema TOPOCHICO, MTY. - Nalco de Mexico, Tito Everardo Ordaz","stage":"In Progress","grupo":"Operaciones","cliente":"Nalco de Mexico","dias":51,"color":"rojo","banderas":["1 log note(s) sin contenido en el chatter - no cuentan como seguimiento"],"sin_avance":false,"racha":1,"fuente":"stage_msg","tramo":">30","compromiso":"2026-08-31","link":"https://serviciosfts.odoo.com/web#id=2349&model=project.project&view_type=form","cxc":{"inv":"INV2014","cur":"MXN","nat":1396808.9,"mxn":1396808.9,"due":"2026-10-06","d":-26},"antes":{"dias":60,"color":"rojo"}},{"id":2356,"name":"SO11773 - ELECTRICAL DUMP STATION DALLAS 2 - Mission Foods, Daniel Sanudo","stage":"In Progress","grupo":"Operaciones","cliente":"Mission Foods","dias":50,"color":"rojo","banderas":[],"sin_avance":false,"racha":1,"fuente":"stage_msg","tramo":">30","compromiso":"2026-07-31","link":"https://serviciosfts.odoo.com/web#id=2356&model=project.project&view_type=form","antes":{"dias":49,"color":"rojo"}},{"id":2302,"name":"SO11547 - Desinstalación, Adecuación e Integración de Sistema de Filtración en planta Topo Chico","stage":"In Progress","grupo":"Operaciones","cliente":"Nalco de Mexico","dias":117,"color":"rojo","banderas":[],"sin_avance":false,"racha":1,"fuente":"stage_msg","tramo":">30","compromiso":"2026-08-31","link":"https://serviciosfts.odoo.com/web#id=2302&model=project.project&view_type=form","antes":{"dias":138,"color":"rojo"}},{"id":2355,"name":"SO11673 - Poliza de matto para Compresor Houston TX - Mission Foods","stage":"In Progress","grupo":"Operaciones","cliente":"Mission Foods","dias":50,"color":"rojo","banderas":[],"sin_avance":false,"racha":1,"fuente":"stage_msg","tramo":">30","compromiso":"2026-07-31","link":"https://serviciosfts.odoo.com/web#id=2355&model=project.project&view_type=form","antes":{"dias":49,"color":"rojo"}},{"id":121,"name":"🛠 SO9428 - INSTALACION DE SUMINISTRO DE AGUA FRIA - VERTIV 2da Fase","stage":"In Progress","grupo":"Operaciones","cliente":"Nalco de Mexico","dias":147,"color":"rojo","banderas":[],"sin_avance":false,"racha":1,"fuente":"stage_msg","tramo":">30","compromiso":"2026-08-31","link":"https://serviciosfts.odoo.com/web#id=121&model=project.project&view_type=form","antes":{"dias":372,"color":"rojo"}},{"id":212,"name":"🛠 SO10337 - Cortinas de seguridad 120s y 270s","stage":"In Progress","grupo":"Operaciones","cliente":"Bridgestone México","dias":246,"color":"rojo","banderas":[],"sin_avance":true,"racha":2,"fuente":"stage_msg","tramo":">30","compromiso":"2026-08-31","link":"https://serviciosfts.odoo.com/web#id=212&model=project.project&view_type=form","cxc":{"inv":"INV2018","cur":"USD","nat":11310,"mxn":194752.55,"due":"2026-09-10","d":0},"antes":{"dias":268,"color":"rojo"}}];
+const PUNTO={rojo:"\u{1F534}",amarillo:"\u{1F7E1}",verde:"\u{1F7E2}"};
+const ACC={rojo:"Avanza de etapa o documenta por que sigue aqui (Log note)",amarillo:"Se acerca al limite: mueve la etapa o documenta"};
+const UMBRAL_MXN=1000000, VENTANA_DIAS=14;
+let grupo="Operaciones";
+const esc=s=>String(s==null?"":s).replace(/[&<>]/g,c=>({"&":"&amp;","<":"&lt;",">":"&gt;"}[c]));
+const money=n=>Math.round(n).toLocaleString("en-US");
+const pide=f=>f.color!=="verde"||f.sin_avance||f.banderas.length>0;
+// urgencia FINANCIERA: vencida, por vencer dentro de la ventana, o monto sobre umbral
+function urgencia(f){
+  if(!f.cxc) return null;
+  const r=[];
+  if(f.cxc.d>0) r.push({t:"VENCIDA hace "+f.cxc.d+"d",k:"vence"});
+  else if(f.cxc.d===0) r.push({t:"VENCE HOY",k:"vence"});
+  else if(-f.cxc.d<=VENTANA_DIAS) r.push({t:"vence en "+(-f.cxc.d)+"d",k:"vence"});
+  if(f.cxc.mxn>=UMBRAL_MXN) r.push({t:"$"+money(f.cxc.mxn)+" MXN",k:"dinero"});
+  return r.length?r:null;
 }
-function seccion(titulo, criterio, arr, compacto){
-  let h = "<section><h2>" + titulo + " [" + arr.length + "]</h2><p class=\"criterio\">" + criterio + "</p>";
-  if(!arr.length) return h + "<p class=\"vacio\">- ninguno -</p></section>";
-  h += "<ul>" + arr.slice().sort((a,b)=>b.dias-a.dias).map(f=>renglon(f,compacto)).join("") + "</ul>";
-  return h + "</section>";
+// cambio vs la corrida anterior, distinguiendo AVANCE de CORRECCION DE MEDICION
+function cambio(f){
+  if(!f.antes) return null;
+  if(f.antes.dias===f.dias && f.antes.color===f.color) return null;
+  const corr = f.antes.dias!==f.dias && f.fuente==="stage_msg";
+  const dir = f.antes.color===f.color ? "cambio" : (f.color==="verde"||(f.antes.color==="rojo"&&f.color==="amarillo") ? "mejoro" : "empeoro");
+  return {corr, dir, antesDias:f.antes.dias, antesColor:f.antes.color};
+}
+function renglon(f,compacto,urg){
+  let h="<li class=\"row\">"+PUNTO[f.color]+" <span class=\"nom\">"+esc(f.name.slice(0,68))+"</span>";
+  h+=" <span class=\"meta\">("+esc(f.cliente.slice(0,30))+") &middot; "+esc(f.stage);
+  h+=" &middot; <b>"+f.dias+(f.dias===1?" dia":" dias")+"</b> en la etapa";
+  if(f.compromiso) h+=" &middot; compromiso "+esc(f.compromiso.slice(0,10));
+  h+=" &middot; <a href=\""+f.link+"\" target=\"_blank\" rel=\"noopener\">abrir</a></span>";
+  for(const u of (urg||[])) h+="<span class=\"chip "+u.k+"\">"+esc(u.t)+"</span>";
+  const c=cambio(f);
+  if(c && !compacto){
+    if(c.corr) h+="<span class=\"chip corr\">correccion de medicion &middot; antes decia "+c.antesDias+" dias</span>";
+    else h+="<span class=\"chip\">"+c.dir+" &middot; antes "+c.antesDias+" dias</span>";
+  }
+  if(compacto){
+    const m=[]; if(f.sin_avance) m.push(f.racha+" notas iguales"); if(f.banderas.length) m.push(f.banderas.length+" bandera"+(f.banderas.length>1?"s":""));
+    if(m.length) h+="<span class=\"chip\">"+esc(m.join(" + "))+"</span>";
+  } else {
+    if(f.cxc) h+="<span class=\"band\">\u{1F4B0} "+f.cxc.inv+" &middot; "+money(f.cxc.nat)+" "+f.cxc.cur+" &middot; vence "+f.cxc.due+"</span>";
+    for(const b of f.banderas) h+="<span class=\"band\">\u{1F6A9} "+esc(b)+"</span>";
+    if(f.sin_avance) h+="<span class=\"band\">\u{1F504} "+f.racha+" notas seguidas practicamente iguales</span>";
+    if(f.color!=="verde") h+="<span class=\"band\">\u21B3 "+ACC[f.color]+"</span>";
+  }
+  return h+"</li>";
+}
+function sec(tit,crit,arr,compacto,urgente,urgMap){
+  let h="<section"+(urgente?" class=\"urgente\"":"")+"><h2"+(urgente?" class=\"urg\"":"")+">"+tit+" ["+arr.length+"]</h2><p class=\"criterio\">"+crit+"</p>";
+  if(!arr.length) return h+"<p class=\"vacio\">- ninguno -</p></section>";
+  h+="<ul>"+arr.map(f=>renglon(f,compacto,urgMap?urgMap.get(f.id):null)).join("")+"</ul>";
+  return h+"</section>";
 }
 function pintar(){
-  const sub = FILAS.filter(f=>f.grupo===grupo);
-  const p = sub.filter(pide), np = sub.filter(f=>!pide(f));
-  const c = {verde:0,amarillo:0,rojo:0}; sub.forEach(f=>c[f.color]++);
-  document.getElementById("kpis").innerHTML =
-    "<span class=\"kpi\"><b>" + sub.length + "</b> vigilados</span>" +
-    "<span class=\"kpi\">" + PUNTO.verde + " " + c.verde + "</span>" +
-    "<span class=\"kpi\">" + PUNTO.amarillo + " " + c.amarillo + "</span>" +
-    "<span class=\"kpi\">" + PUNTO.rojo + " " + c.rojo + "</span>";
-  document.getElementById("cuerpo").innerHTML =
-    seccion("Piden algo", "Fuera de tiempo en su etapa, con bandera, o con el seguimiento repetido. Ordenados por dias.", p, false) +
-    seccion("Ya no piden nada", "En tiempo en su etapa, sin banderas y con seguimiento al dia. No requieren accion.", np, true);
-  document.getElementById("cuenta").innerHTML =
-    "<b>La cuenta:</b> " + sub.length + " vigilados = " + p.length + " que piden algo + " + np.length +
-    " que no piden nada. " + (p.length+np.length===sub.length ? "<span class=\"ok\">Cuadra.</span>" : "<b>NO CUADRA</b>");
+  const sub=FILAS.filter(f=>f.grupo===grupo);
+  const urgMap=new Map(); const urg=[];
+  for(const f of sub){ const u=urgencia(f); if(u){urgMap.set(f.id,u); urg.push(f);} }
+  const urgIds=new Set(urg.map(f=>f.id));
+  const camb=sub.filter(f=>!urgIds.has(f.id) && cambio(f) && pide(f));
+  const cambIds=new Set(camb.map(f=>f.id));
+  const resto=sub.filter(f=>pide(f) && !urgIds.has(f.id) && !cambIds.has(f.id));
+  const noPide=sub.filter(f=>!pide(f) && !urgIds.has(f.id));
+  const nCorr=camb.filter(f=>cambio(f).corr).length + urg.filter(f=>cambio(f)&&cambio(f).corr).length;
+  const ord=a=>a.slice().sort((x,y)=>y.dias-x.dias);
+  document.getElementById("recuento").innerHTML=
+    "<b>"+sub.length+"</b> proyectos vigilados = <b>"+urg.length+"</b> no pueden esperar + <b>"+camb.length+
+    "</b> cambiaron + <b>"+resto.length+"</b> siguen pendientes + <b>"+noPide.length+"</b> no piden nada."+
+    (urg.length+camb.length+resto.length+noPide.length===sub.length?" <span class=\"ok\">Cuadra.</span>":" <b>NO CUADRA</b>")+
+    "<br><span style=\"color:#6b7280\">El color de cada punto dice UNA sola cosa: que tan tarde va ese proyecto en su etapa. No define en que seccion cae.</span>";
+  let h="";
+  h+=sec("\u{1F6A8} No puede esperar","Tiene una cuenta por cobrar vencida, que vence dentro de "+VENTANA_DIAS+" dias, o por mas de $"+money(UMBRAL_MXN)+" MXN. <b>Se imprime SIEMPRE, haya cambiado o no.</b>",ord(urg),false,true,urgMap);
+  h+=sec("Lo que cambio desde el reporte anterior","Entro, empeoro, mejoro o estreno bandera. Excluye los de arriba para que ningun proyecto salga dos veces.",ord(camb),false,false,null);
+  h+=sec("Siguen pendientes, sin cambio","Piden algo y ya lo pedian. En el correo diario van contados; el lunes se despliegan.",ord(resto),true,false,null);
+  h+=sec("Ya no piden nada","En tiempo en su etapa, sin banderas y con seguimiento al dia.",ord(noPide),true,false,null);
+  let rep="<section><h2>\u{1F527} Problemas del propio reporte ["+(nCorr?1:0)+"]</h2><p class=\"criterio\">Fallas de medicion o de escritura. No son proyectos atrasados.</p>";
+  rep += nCorr ? "<ul><li class=\"row\"><b>"+nCorr+" proyectos cambiaron por una CORRECCION DE MEDICION, no por avance.</b> El contador media la edad del proyecto y ahora mide el tiempo en la etapa (issue #229). Van marcados con su etiqueta azul.</li></ul>" : "<p class=\"vacio\">- nada -</p>";
+  document.getElementById("cuerpo").innerHTML=h+rep+"</section>";
 }
-document.querySelectorAll(".tab").forEach(t=>t.onclick=()=>{
-  grupo=t.dataset.g;
-  document.querySelectorAll(".tab").forEach(x=>x.setAttribute("aria-selected", String(x===t)));
-  pintar();
-});
-document.getElementById("ref").onclick=e=>{
-  const b=e.target; b.disabled=true; b.textContent="Actualizando...";
-  setTimeout(()=>{ b.disabled=false; b.textContent="Actualizar";
-    document.getElementById("ts").textContent="datos del 10/Sep/2026 08:00 CST (sin cambios)"; pintar(); }, 700);
-};
+document.querySelectorAll(".tab").forEach(t=>t.onclick=()=>{grupo=t.dataset.g;
+  document.querySelectorAll(".tab").forEach(x=>x.setAttribute("aria-selected",String(x===t)));pintar();});
+document.getElementById("ref").onclick=e=>{const b=e.target;b.disabled=true;b.textContent="Actualizando...";
+  setTimeout(()=>{b.disabled=false;b.textContent="Actualizar";pintar();},600);};
 pintar();
 </script>
